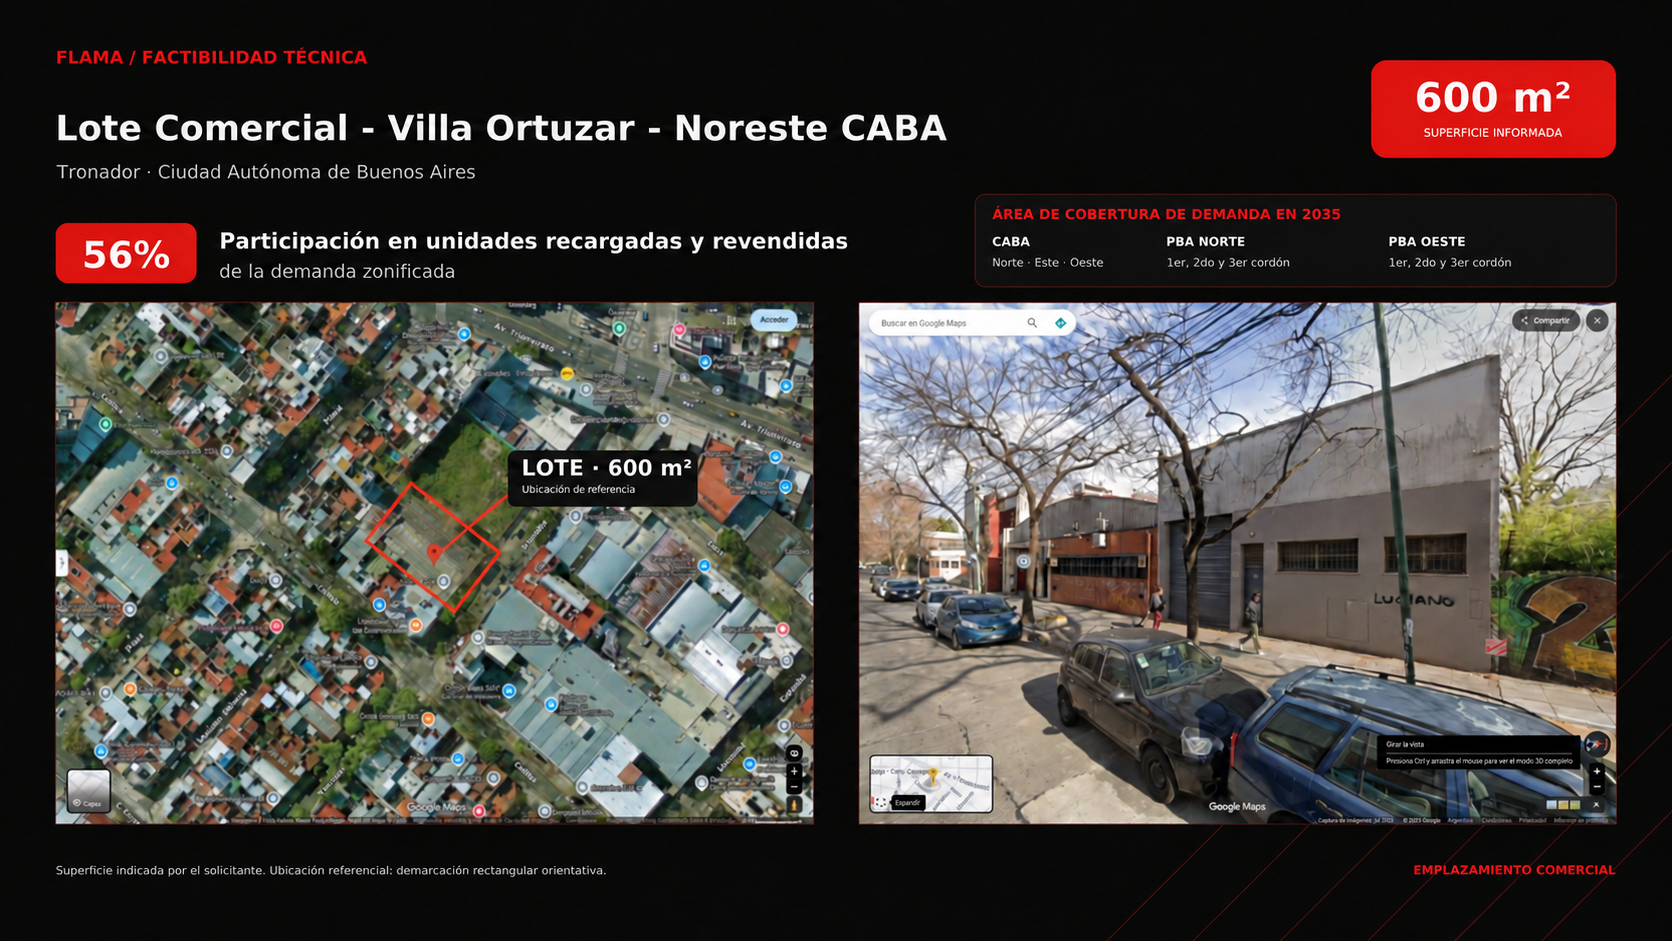
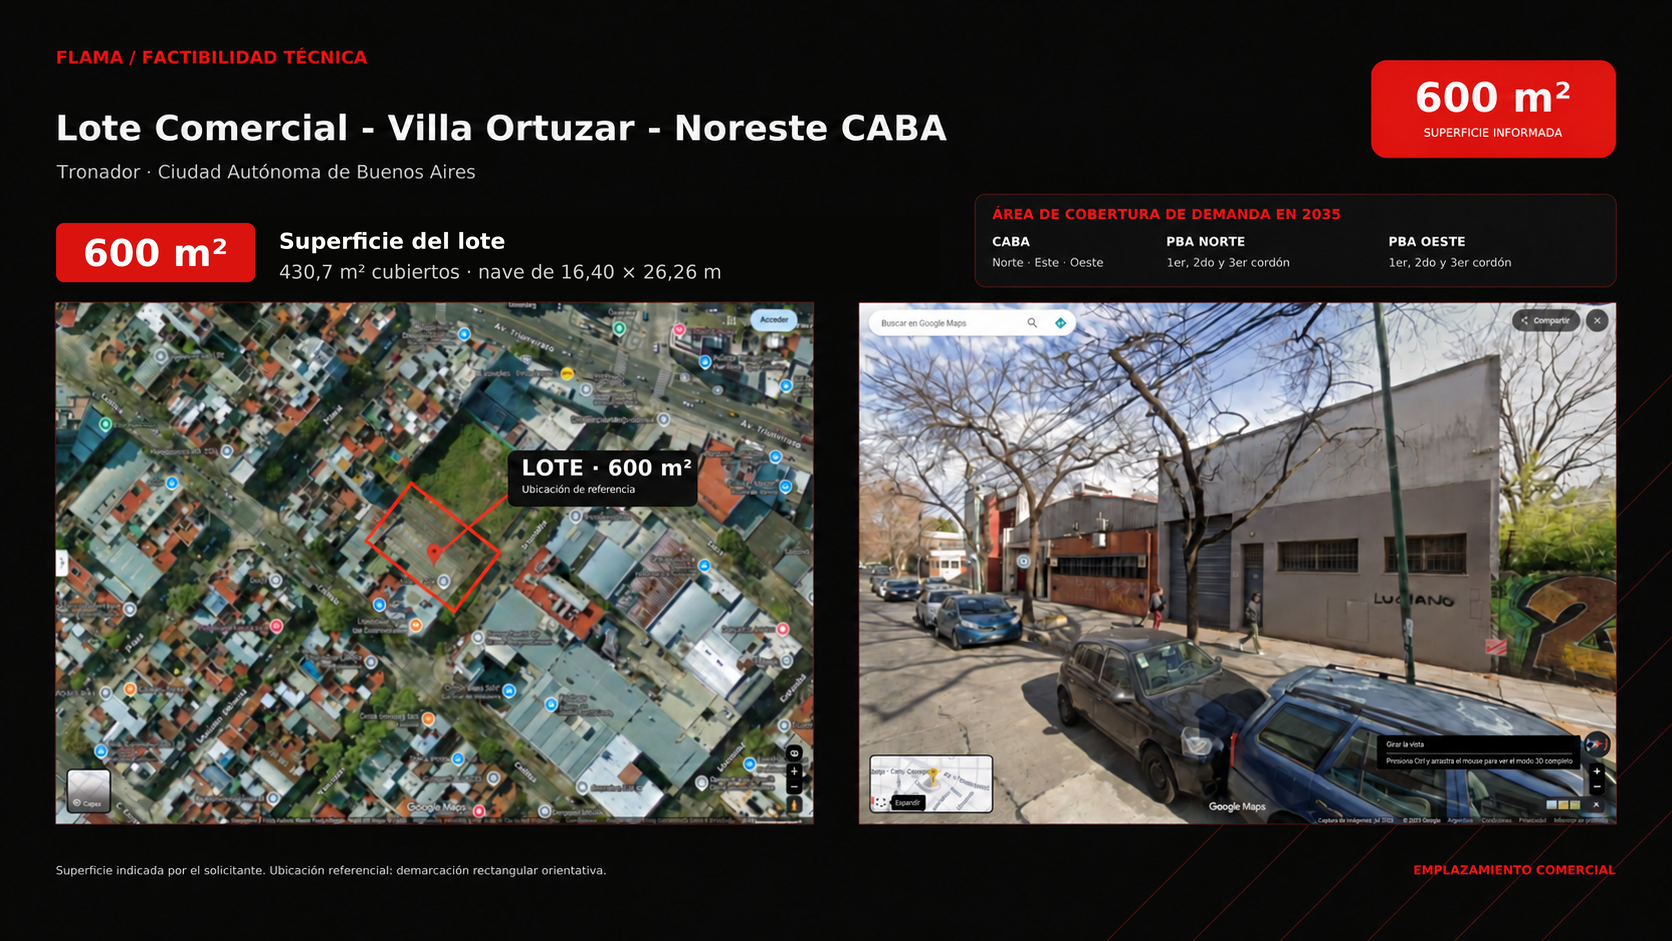
Localización comercial: superficie del lote en lugar del 56 % de participación
Claude-Session: https://claude.ai/code/session_01WGWKVbAbFFR3NzcMZs2ihk

Changed region(s): [[0.0311, 0.2157, 0.4976, 0.3082]]

diff --git a/index.html b/index.html
@@ -357,7 +357,7 @@ svg.explore .part:not(.sel){opacity:.35}
 
 
 
-<section class="frame catimg" id="f-l1" data-x="120" data-y="4320"><img src="img/loc_comercial.png?v=78c7e4fa" alt="Lote comercial · Villa Ortúzar · Noreste CABA"></section>
+<section class="frame catimg" id="f-l1" data-x="120" data-y="4320"><img src="img/loc_comercial.png?v=3830265a" alt="Lote comercial · Villa Ortúzar · Noreste CABA"></section>
 <section class="frame catimg" id="f-l2" data-x="2240" data-y="4320"><img src="img/loc_industrial.png?v=3eea8445" alt="Lote industrial · PIVLA · Avellaneda"></section>
 
 <!-- 6 PLANO -->
